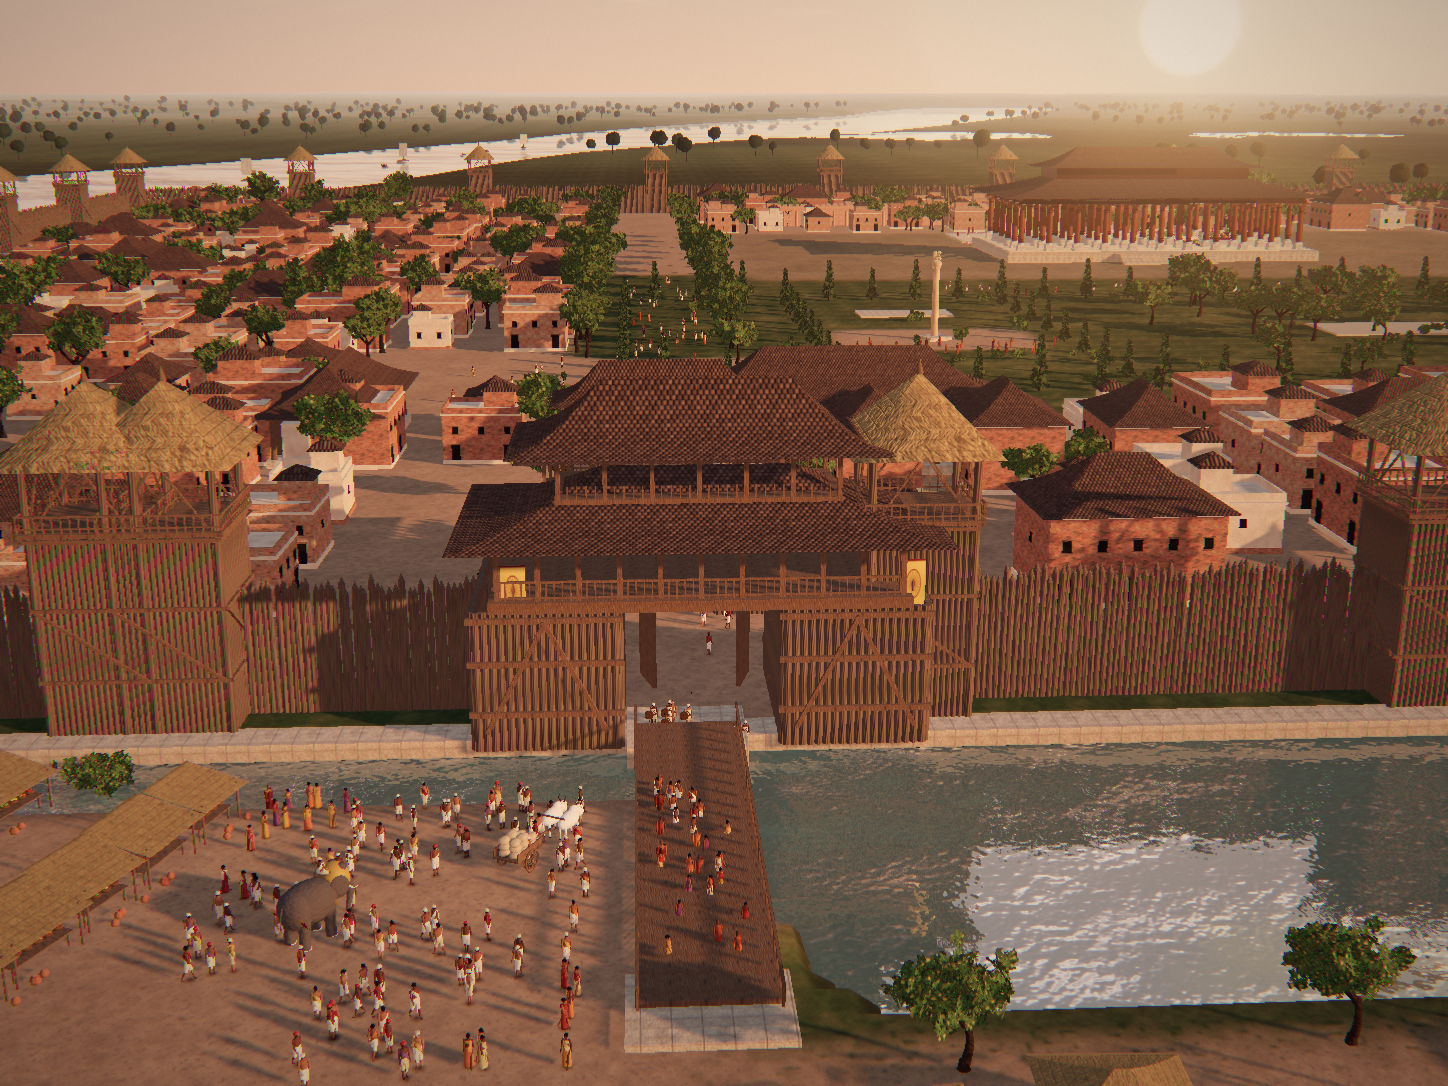
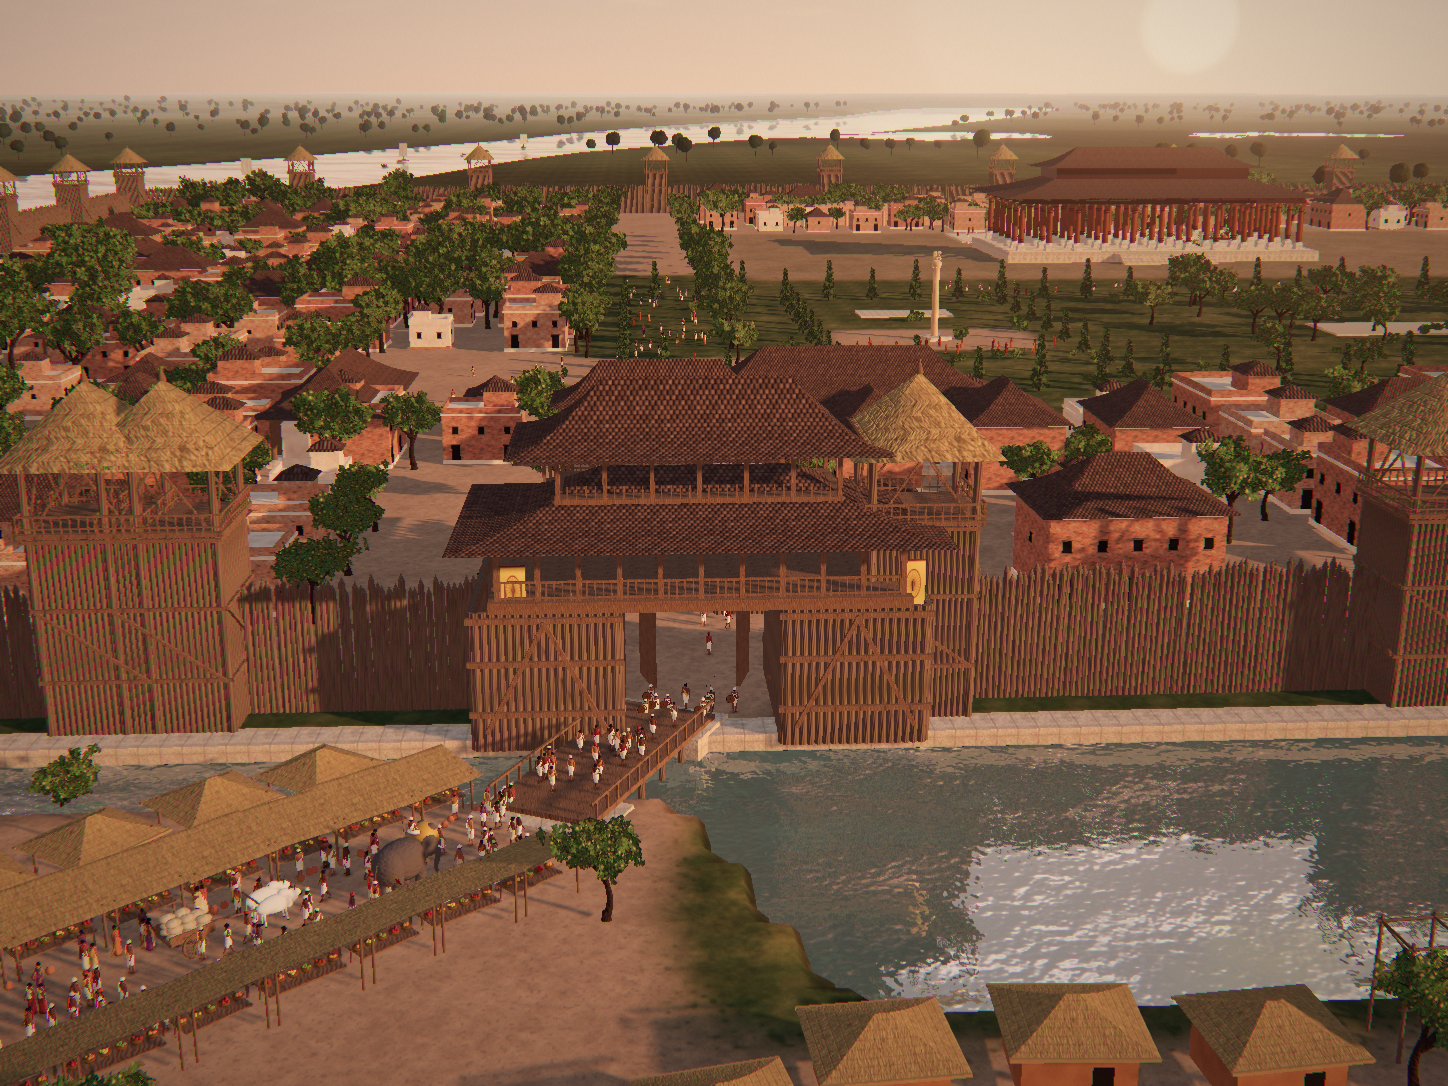
Cook round 14: S01 near-bank layout, towers, sun; S03 framing work in progress
Claude-Session: https://claude.ai/code/session_0162mTPdSB4sTmVTjs86gVkC

diff --git a/src/world.js b/src/world.js
@@ -180,12 +180,13 @@ export function buildWorld(scene, M) {
 
   // moat bridge: stone abutments + timber deck + railings
   const bridge = new A.AB();
-  bridge.add(new THREE.BoxGeometry(8, 3.6, 7), 'stone', [0, -1.0, 5]).add(new THREE.BoxGeometry(8, 3.6, 6), 'stone', [0, -1.0, 39]);
-  bridge.add(new THREE.BoxGeometry(7, 0.35, 34), 'timber', [0, 0.9, 22]);
-  for (let z = 8; z <= 36; z += 4) bridge.add(new THREE.CylinderGeometry(0.22, 0.22, 4.5, 8), 'log', [-3, -1.5, z]).add(new THREE.CylinderGeometry(0.22, 0.22, 4.5, 8), 'log', [3, -1.5, z]);
-  for (let z = 6; z <= 40; z += 1.6) for (const x of [-3.4, 3.4]) bridge.add(new THREE.BoxGeometry(0.14, 1.1, 0.14), 'timber', [x, 1.6, z]);
-  for (const x of [-3.4, 3.4]) bridge.add(new THREE.BoxGeometry(0.16, 0.16, 35), 'timber', [x, 2.15, 22]);
-  I.register('bridge', bridge.build(), {}); I.put('bridge', -1, 0, 0, 0, 1);
+  // short bridge crossing the narrow left arm of the moat diagonally toward the south-west road (as in R01)
+  bridge.add(new THREE.BoxGeometry(8, 3.6, 5), 'stone', [0, -1.0, 4]).add(new THREE.BoxGeometry(8.5, 3.2, 5), 'stone', [0, -1.0, 19]);
+  bridge.add(new THREE.BoxGeometry(7, 0.35, 18), 'timber', [0, 0.9, 11.5]);
+  for (let z = 7; z <= 16; z += 3) bridge.add(new THREE.CylinderGeometry(0.22, 0.22, 4.5, 8), 'log', [-3, -1.5, z]).add(new THREE.CylinderGeometry(0.22, 0.22, 4.5, 8), 'log', [3, -1.5, z]);
+  for (let z = 3; z <= 20; z += 1.4) for (const x of [-3.4, 3.4]) bridge.add(new THREE.BoxGeometry(0.14, 1.1, 0.14), 'timber', [x, 1.6, z]);
+  for (const x of [-3.4, 3.4]) bridge.add(new THREE.BoxGeometry(0.16, 0.16, 18), 'timber', [x, 2.15, 11.5]);
+  I.register('bridge', bridge.build(), {}); I.put('bridge', -1, 0, 0, -0.46, 1);
   // stone embankment along wall foot facing moat
   I.register('embank', { stone: new THREE.BoxGeometry(1, 1, 1) }, {});
   I.put('embank', 77, -0.6, 4.6, 0, [154, 2.2, 3]); I.put('embank', -90, -0.6, 4.6, 0, [170, 2.2, 3]);
@@ -212,9 +213,9 @@ export function buildWorld(scene, M) {
   for (let x = wall.x0 + 18; x < wall.x1 - 10; x += 15) for (let z = -24; z > wall.z0 + 12; z -= 14) {
     const r = rng(x * 31 + z * 17); const jx = x + (r() - 0.5) * 3, jz = z + (r() - 0.5) * 3;
     if (!free(jx, jz, 6)) continue;
-    if (r() < 0.12) { treeAt(jx, jz, 1.1); continue; }
+    if (r() < 0.2) { treeAt(jx, jz, 1.15); continue; }
     I.put(pick(r, houseKinds), jx, 0.4, jz, Math.round(r() * 4) * Math.PI / 2 + (r() - 0.5) * 0.06, 0.9 + r() * 0.25);
-    if (r() < 0.25) treeAt(jx + 7, jz + 6, 0.9);
+    if (r() < 0.55) treeAt(jx + 7, jz + 6, 0.95);
   }
   // avenue trees and people
   for (let z = -40; z > -460; z -= 16) { if (z < -95 && z > -150) continue; treeAt(-12, z, 0.9); treeAt(12, z + 8, 0.9); }
@@ -286,23 +287,30 @@ export function buildWorld(scene, M) {
   I.register('hut', A.hut({ w: 5, d: 4.4, h: 2.6, seed: 3 }), {}); I.register('hutOpen', A.hut({ w: 4.6, d: 4, h: 2.5, seed: 4, open: true }), {});
   I.register('logPile', A.logPile({ n: 36, L: 6 }), {}); I.register('scaffold', A.scaffold({ w: 9, h: 7, d: 3 }), {});
   // road from bridge heading south-west, market on its west side
-  // market on the near bank, left of the bridge (stalls face the road which runs from the bridge to the south-west)
-  for (let i = 0; i < 8; i++) { const z = 18 + i * 4.8; I.ground(i % 2 ? 'stall' : 'stall2', -30 - i * 1.6, z, Math.PI / 2 - 0.35 + (R() - 0.5) * 0.15); }
-  for (let i = 0; i < 6; i++) { const z = 16 + i * 5.2; I.ground(i % 2 ? 'stall2' : 'stall', -42 - i * 1.6, z, Math.PI / 2 - 0.35); }
-  for (let i = 0; i < 6; i++) I.ground('hutOpen', -52 - i * 6, 20 + (i % 2) * 6, R() * 0.3);
-  crowd(-14, 30, 7, 14, 90, {}); crowd(-24, 24, 3, 12, 30, {}); crowd(-1, 22, 2.4, 13, 34, { pose: 'walk' });
-  for (let i = 0; i < 8; i++) person(-4 + R() * 7, 4 + R() * 3, 0, { type: 'soldier', pose: 'stand' });
-  for (let i = 0; i < 10; i++) person(-3 + (i % 2) * 2, 12 + i * 1.6, Math.PI, { type: 'monk', pose: 'walk' });
-  mahoutElephant(-21, 31, 2.5, 'elephant'); I.ground('elephantPlain', -48, 50, 0.8, 0.9);
-  oxCart(-11, 24, Math.PI - 0.5); oxCart(-30, 52, -0.4, 'pots');
-  // foreground huts and the timber yard (south bank, right of the bridge)
-  for (const [x, z, r] of [[6, 52, 0.1], [15, 50, -0.05], [-4, 56, 0.2], [24, 56, 0.05]]) I.ground('hut', x, z, r, 1);
-  for (const [x, z, r] of [[36, 47, 0.1], [44, 49, 0.05], [52, 46, -0.1]]) I.ground('logPile', x, z, r, 1);
-  I.ground('scaffold', 48, 44, 0.0, 1); I.ground('scaffold', 32, 52, 0.1, 0.8);
-  crowd(42, 47, 9, 3, 10, { type: 'man', pose: 'stand' });
+  // market street on the near bank: the road leaves the bridge foot and runs south-west, stalls on both sides (R01 lower left)
+  const road0 = new THREE.Vector2(-9.5, 18.5), rdir = new THREE.Vector2(-0.75, 0.66).normalize(), rn = new THREE.Vector2(rdir.y, -rdir.x);
+  const along = (t, off) => [road0.x + rdir.x * t + rn.x * off, road0.y + rdir.y * t + rn.y * off];
+  for (let i = 0; i < 9; i++) for (const side of [-1, 1]) {
+    const [x, z] = along(4 + i * 4.6 + (side > 0 ? 2 : 0), side * 6.2);
+    I.ground(i % 2 ? 'stall' : 'stall2', x, z, Math.atan2(-side * rn.x, -side * rn.y) + (R() - 0.5) * 0.12);
+  }
+  for (let i = 0; i < 6; i++) { const [x, z] = along(8 + i * 7, -12); I.ground('hutOpen', x, z, Math.atan2(rn.x, rn.y) + R() * 0.3); }
+  for (let i = 0; i < 120; i++) { const t = R() * 46, off = (R() - 0.5) * 7.5; const [x, z] = along(t, off); person(x, z, Math.atan2(rdir.x, rdir.y) + (R() < 0.5 ? Math.PI : 0) + (R() - 0.5) * 0.8, {}); }
+  for (let i = 0; i < 30; i++) { const t = R() * 46, side = R() < 0.5 ? -1 : 1; const [x, z] = along(t, side * 4.4); person(x, z, Math.atan2(side * rn.x, side * rn.y), { pose: 'stand' }); }
+  for (let i = 0; i < 26; i++) { const a = -0.46; const zz = 2 + R() * 17, xx = (R() - 0.5) * 5; person(-1 + Math.sin(a) * zz + Math.cos(a) * xx, Math.cos(a) * zz - Math.sin(a) * xx, a + (R() < 0.5 ? Math.PI : 0), { pose: 'walk', y: 1.1 }); }
+  for (let i = 0; i < 8; i++) person(-4 + R() * 7, 1 + R() * 3, 0, { type: 'soldier', pose: 'stand' });
+  { const [x, z] = along(11, 1.2); mahoutElephant(x, z, Math.atan2(-rdir.x, -rdir.y) + 0.2, 'elephant'); }
+  { const [x, z] = along(22, -1.5); oxCart(x, z, Math.atan2(-rdir.x, -rdir.y)); }
+  { const [x, z] = along(34, 1.5); oxCart(x, z, Math.atan2(rdir.x, rdir.y), 'pots'); }
+  I.ground('elephantPlain', -60, 60, 0.8, 0.9);
+  // foreground huts and the timber yard on the south bank of the moat, right of the bridge (R01 bottom centre and right)
+  for (const [x, z, r] of [[6, 45.5, 0.08], [14.5, 44.5, -0.05], [23, 45.5, 0.1], [-1, 50, 0.2]]) I.ground('hut', x, z, r, 1);
+  for (const [x, z, r] of [[34, 44, 0.05], [41, 45.5, 0.1], [50, 44, -0.05]]) I.ground('logPile', x, z, r, 1);
+  I.ground('scaffold', 45, 41.5, 0.0, 1); I.ground('scaffold', 33, 41.8, 0.08, 0.85);
+  crowd(42, 44.5, 9, 1.5, 12, { type: 'man', pose: 'stand' });
   for (let i = 0; i < 40; i++) { const x = 60 + R() * 200, z = 45 + R() * 30; I.ground('shrub', x, z, R() * 6, 1 + R()); }
   for (let i = 0; i < 14; i++) treeAt(-80 + R() * 160, 50 + R() * 60 + (R() < 0.5 ? 0 : 40), 0.9);
-  treeAt(10, 44, 0.8); treeAt(-38, 10, 0.8); treeAt(28, 43, 0.7);
+  treeAt(-6, 30, 0.75); treeAt(-40, 12, 0.8); treeAt(29, 47, 0.7); treeAt(-24, 52, 0.9);
 
   // ======================= ZONE B: STUPA HILL =======================
   buildStupaHill(G, I, M, ref, person, treeAt);
@@ -319,7 +327,7 @@ export function buildWorld(scene, M) {
     rect(20, -255, 240, -380, 'rgb(150,0,0)');
     rect(-40, -150, 40, -100, 'rgb(255,0,0)'); rect(30, -180, 66, -156, 'rgb(255,0,0)');
     g.lineCap = 'round'; g.strokeStyle = 'rgb(255,0,0)';
-    g.lineWidth = ts(16); g.beginPath(); g.moveTo(tx(0), tz(0)); g.lineTo(tx(-2), tz(24)); g.lineTo(tx(-30), tz(60)); g.lineTo(tx(-80), tz(200)); g.stroke();
+    g.lineWidth = ts(12); g.beginPath(); g.moveTo(tx(0), tz(0)); g.lineTo(tx(-9.5), tz(18.5)); g.lineTo(tx(-45), tz(49.5)); g.lineTo(tx(-90), tz(200)); g.stroke();
     rect(-70, 13, -2, 60, 'rgb(230,0,0)'); rect(-10, 41, 70, 64, 'rgb(200,0,0)');
     // town street & plaza
     rect(820, 150, 960, 400, 'rgb(230,0,0)');
@@ -506,7 +514,7 @@ function buildStupaHill(G, I, M, ref, person, treeAt) {
   const sd = new THREE.Vector2(1, -1).normalize();
   I.put('stairs', sx + sd.x * R * 1.18, sy - 0.15, sz + sd.y * R * 1.18, Math.atan2(sd.x, sd.y), 1);
   // ---- composition relative to the shot-3 camera (NE of stupa, looking SW at the stairs)
-  const CAM = { x: sx + 27, z: sz - 27 }; const f = new THREE.Vector2(-1, 1).normalize(); const L = new THREE.Vector2(0.7071, 0.7071); // left of view
+  const CAM = { x: sx + 33, z: sz - 33 }; const f = new THREE.Vector2(-1, 1).normalize(); const L = new THREE.Vector2(0.7071, 0.7071); // left of view
   const at = (fw, lf) => [CAM.x + f.x * fw + L.x * lf, CAM.z + f.y * fw + L.y * lf];
   const faceStupa = Math.atan2(f.x, f.y);
   // Ashoka pillar with four lions, square railing (front-left)
@@ -522,9 +530,9 @@ function buildStupaHill(G, I, M, ref, person, treeAt) {
   for (const [x, z] of [[-3, -2.6], [-3, 2.6], [3, -2.6], [3, 2.6]]) pv.add(new THREE.CylinderGeometry(0.15, 0.18, 3.2, 8), 'log', [x, 1.85, z]);
   pv.add(A.curvedRoof(9, 8, 2, 0.12, 5), 'thatch', [0, 3.3, 0]); pv.add(new THREE.BoxGeometry(2.4, 0.4, 1.4), 'stone', [0.6, 0.7, 0.2]);
   I.register('restPav', pv.build(), {});
-  const [pvx, pvz] = at(17, 19); I.ground('restPav', pvx, pvz, faceStupa + 0.3, 1);
+  const [pvx, pvz] = at(21, 12.5); I.ground('restPav', pvx, pvz, faceStupa + 0.3, 1);
   person(pvx, pvz, faceStupa + Math.PI / 2 - 0.6, { type: 'monk', pose: 'sit', y: height(pvx, pvz) + 0.9 });
-  { const [x, z] = at(16, 16.5); person(x, z, faceStupa - 0.9, { type: 'man', pose: 'sit', y: height(x, z) + 0.5 }); }
+  { const [x, z] = at(20, 10.5); person(x, z, faceStupa - 0.9, { type: 'man', pose: 'sit', y: height(x, z) + 0.5 }); }
   { const [x, z] = at(10.5, 9); person(x, z, faceStupa + Math.PI - 0.6, { type: 'soldier', pose: 'stand' }); }
   { const [x, z] = at(12, 10.5); person(x, z, faceStupa + Math.PI - 0.9, { type: 'man', pose: 'stand' }); }
   { const [x, z] = at(17, 7); person(x, z, faceStupa + 0.2, { type: 'man', pose: 'walk' }); person(x - 1, z + 0.4, faceStupa, { type: 'man', pose: 'stand' }); }
@@ -538,7 +546,7 @@ function buildStupaHill(G, I, M, ref, person, treeAt) {
   const r = rng(91);
   for (let i = 0; i < 220; i++) { const a = r() * 6.28, d = 30 + r() * 110; const x = sx + Math.cos(a) * d, z = sz + Math.sin(a) * d; I.ground('rock' + (i % 4), x, z, r() * 6, 0.4 + r() * 1.6, { dy: -0.25 }); }
   for (let i = 0; i < 9000; i++) { const a = r() * 6.28, d = R * 1.18 + 4 + Math.pow(r(), 1.6) * 110; const x = sx + Math.cos(a) * d, z = sz + Math.sin(a) * d; const [cx2, cz2] = at(4, 0); if (Math.hypot(x - cx2, z - cz2) < 3) continue; I.ground('grass', x, z, r() * 6, 0.7 + r() * 0.8); }
-  for (const [fw, lf, s] of [[4, 2.6, 1.2], [6, 3.9, 2.0], [9, 6.2, 2.6], [5, 1.5, 0.6], [12, 7.5, 1.8], [3, 1.7, 0.5], [7.5, 5.0, 1.0], [3.2, 2.4, 0.8]]) { const [x, z] = at(fw, lf); I.ground('rock' + ((fw * 3 | 0) % 4), x, z, fw * 2, s, { dy: -0.18 * s }); }
+  for (const [fw, lf, s] of [[4, 2.6, 1.2], [6, 3.9, 2.0], [9, 6.2, 2.6], [5, 1.5, 0.6], [12, 7.5, 1.8], [3, 1.7, 0.5], [7.5, 5.0, 1.0], [3.2, 2.4, 0.8], [2.4, 1.2, 0.7], [5.5, 4.6, 1.6]]) { const [x, z] = at(fw, lf); I.ground('rock' + ((fw * 3 | 0) % 4), x, z, fw * 2, s, { dy: -0.06 * s }); }
   // path edging stones along both sides of the path to the stairs
   for (let i = 0; i < 26; i++) { const fw = 3 + i * 0.9; for (const lf of [1.9, -2.2]) { const [x, z] = at(fw, lf + Math.sin(i) * 0.2); I.ground('rock' + (i % 4), x, z, i, 0.22 + r() * 0.1, { dy: -0.04 }); } }
   for (let i = 0; i < 60; i++) { const a = r() * 6.28, d = 55 + r() * 150; treeAt(sx + Math.cos(a) * d, sz + Math.sin(a) * d, 0.9); }
@@ -546,6 +554,8 @@ function buildStupaHill(G, I, M, ref, person, treeAt) {
   // big overhanging tree near the camera (top right) and one far left
   { const [x, z] = at(5, -9); I.ground('treeBig', x, z, 2.0, 1.0); }
   { const [x, z] = at(22, 30); I.ground('treeBig2', x, z, 0.4, 1.0); }
+  { const [x, z] = at(14, 17); I.ground('treeBig2', x, z, 2.4, 1.05); } // framing tree at the left edge (R03)
+  for (const [fw, lf, t] of [[12, 0.6, 'man'], [13, -0.8, 'woman'], [14.5, 0.2, 'monk'], [16, -0.5, 'man'], [10.5, -1.6, 'woman'], [17.5, 0.8, 'monk'], [9, 1.4, 'man'], [15, 1.6, 'woman']]) { const [x, z] = at(fw, lf); person(x, z, faceStupa + (r() - 0.5) * 0.3, { type: t, pose: 'walk' }); }
   { const [x, z] = at(9, 26); treeAt(x, z, 1.1); }
 }
 

diff --git a/src/shots.js b/src/shots.js
@@ -8,8 +8,8 @@ export const SHOTS = {
        sun: { az: -140, el: 34 }, env: 0.6, sky: { zenith: 0x4a7ac8, horizon: 0xd8e4ee, glow: 0.4, intensity: 1.3 }, exposure: 0.95, cloud: 0.62,
        fog: { color: 0xc8d4dc, density: 0.0012 }, shadow: { center: [130, 0, -315], size: 110 },
        grade: { lift: [0.05, 0.03, 0.0], gain: [1.12, 1.01, 0.86], sat: 1.18, contrast: 1.04 }, sunInt: 5.0, sunCol: 0xffd8a8, hemi: 1.1 },
-  3: { name: 'stupa_hill', pos: [1027, 0, -147], target: [1004, 0, -124], eye: 1.7, tdy: 7.5, fov: 58,
-       sun: { az: 95, el: 38 }, sky: { zenith: 0x5c8ed0, horizon: 0xdce6ee, glow: 0.5, intensity: 1.3 }, exposure: 0.6, cloud: 0.55,
+  3: { name: 'stupa_hill', pos: [1033, 0, -153], target: [1004, 0, -124], eye: 2.6, tdy: 7.0, fov: 54,
+       sun: { az: 122, el: 40 }, sky: { zenith: 0x5c8ed0, horizon: 0xdce6ee, glow: 0.5, intensity: 1.3 }, exposure: 0.6, cloud: 0.55,
        fog: { color: 0xd0dce6, density: 0.00013 }, shadow: { center: [1020, 0, -140], size: 140 },
        grade: { lift: [0.03, 0.02, 0.01], gain: [1.08, 1.02, 0.92], sat: 0.95, contrast: 1.02 }, sunInt: 4.4, sunCol: 0xffe6c4, hemi: 0.95 },
   4: { name: 'market_street', pos: [880, 2.2, 346], target: [884, 7.6, 250], fov: 58,

diff --git a/src/materials.js b/src/materials.js
@@ -67,7 +67,7 @@ export function buildMaterials() {
   const baseSt = T.stoneTex({ base: [196, 184, 162], seed: 41 });
   M.baseStone = worldUV(std({ map: baseSt.map, bumpMap: baseSt.bump, bumpScale: 2, roughness: 0.8 }), 0.5);
   const rock = T.stoneTex({ base: [128, 118, 104], seed: 16 });
-  M.rock = worldUV(std({ map: rock.map, bumpMap: rock.bump, bumpScale: 4, roughness: 0.95 }), 0.25);
+  M.rock = worldUV(std({ map: rock.map, bumpMap: rock.bump, bumpScale: 5, roughness: 0.95, color: 0xd6c8b4 }), 0.35);
   const pinkStone = T.stoneTex({ base: [196, 140, 108], seed: 18, polish: true });
   M.pinkStone = worldUV(std({ map: pinkStone.map, bumpMap: pinkStone.bump, bumpScale: 0.6, roughness: 0.5 }), 0.5);
 

diff --git a/src/env.js b/src/env.js
@@ -141,7 +141,7 @@ export function buildSky() {
         float toward = smoothstep(-0.6, 1.0, mu);
         c = mix(c, band, bandAmt * exp(-h * 9.0) * (0.35 + 0.65 * toward));
         c += sunCol * glow * (0.35 * pow(max(mu, 0.0), 6.0) + 0.6 * pow(max(mu, 0.0), 60.0));
-        c += sunCol * 30.0 * smoothstep(0.99955, 0.9998, mu);
+        c += sunCol * vec3(1.0, 0.72, 0.4) * 5.0 * smoothstep(0.99955, 0.9998, mu);
         // below horizon: hazy ground colour
         c = mix(c, horizon * 0.8, smoothstep(0.0, -0.05, d.y));
         gl_FragColor = vec4(c * intensity, 1.0);

diff --git a/cook/ROUNDS.md b/cook/ROUNDS.md
@@ -164,3 +164,24 @@ Top gaps from critics (all four critics, rounds 11 and 13): 1) people read as fa
 Parallel work started: a builder subagent is rebuilding the human generator (people section of src/assets.js only), with a close-up lineup harness.
 Stop check: bar no | floor no (about 0.5h of 8h) | stills approved no | final no -> next round
 Next focus: S01 sun disc and towers (round 14), integrate the new people, then props and materials.
+
+## Round 14
+
+Time: about 06:49 to 06:56 UTC
+Focus: S01 sun, towers and near-bank layout (critic items repeated over three rounds).
+Changes: watchtowers 23 m (were 17 m); sky glow reduced so the sun disc separates from the horizon band, disc tinted orange; diagonal short bridge across the narrow moat arm; a market road leaving the bridge foot to the south-west with stalls on both sides, crowd along the road, elephant and ox carts on it; thatched huts and the timber yard (log piles, scaffolds) moved into the bottom of frame on the moat's south bank; city interior about twice as many trees. S02 to S04 stills are round 13's.
+Stills: `cook/stills/r14/` | Side by side: `cook/compare/r14/all.jpg`
+Scores, eyeballed: mean of 2 critics, raw / calibrated (+19)
+
+| Shot | Comp | Light | Color | Materials | Detail | Mean raw | Calibrated | vs r13 |
+|---|---|---|---|---|---|---|---|---|
+| S01 | 62 | 40 | 53 | 40 | 30 | 45 | 64 | -3 |
+| S02 | 65 | 43 | 54 | 33 | 25 | 44 | 63 | -1 (unchanged render) |
+| S03 | 75 | 52 | 61 | 50 | 35 | 54 | 73 | -1 (unchanged render) |
+| S04 | 63 | 46 | 55 | 36 | 28 | 46 | 65 | -1 (unchanged render) |
+
+Overall raw 47, calibrated 66. Within critic noise of round 13; S01's large layout change did not move its score, because the critics' S01 complaints are now light (no golden rim light, faint sun) and detail (low-poly houses, palisade texture, tiny people).
+Measured: S01 sat +0.072 bright -0.009.
+Top gaps: 1) people (all critics, every round); 2) S01 golden light and river boats; 3) architecture surfaces (palisade logs, house roofs) look repeated and low-poly.
+Stop check: bar no | floor no | approved no | final no -> next round
+Next focus: round 15 = S03 framing (in progress) + integrate the people builder.

diff --git a/VERSIONS.md b/VERSIONS.md
@@ -22,3 +22,4 @@ Render times are per frame at 1448×1086 in headless Chromium with software WebG
 | v0.11 | [v0.11](versions/v0.11/compare.jpg) | Cook round 11: pillar girth parameter (lion capital fixed), open hall with hanging banner. Raw 46 / calibrated 65. |
 | v0.12 | [v0.12](versions/v0.12/compare.jpg) | Cook round 12: flat north horizon, near-bank ground mask bug fixed, murky moat, thin chhatra discs, bluer S03 sky. Not separately scored. |
 | v0.13 | [v0.13](versions/v0.13/compare.jpg) | Cook round 13: S02 hall in depth (longer lens, throne one bay deeper, carved throne, bigger king, column rings, chauri, gong, warm floor). Raw 48.5 / calibrated 67.5, best so far. |
+| v0.14 | [v0.14](versions/v0.14/compare.jpg) | Cook round 14: S01 near bank rebuilt to R01's layout (diagonal bridge, market road, huts and timber yard in frame), taller watchtowers, orange sun disc, greener city. Raw 47 / calibrated 66. |
